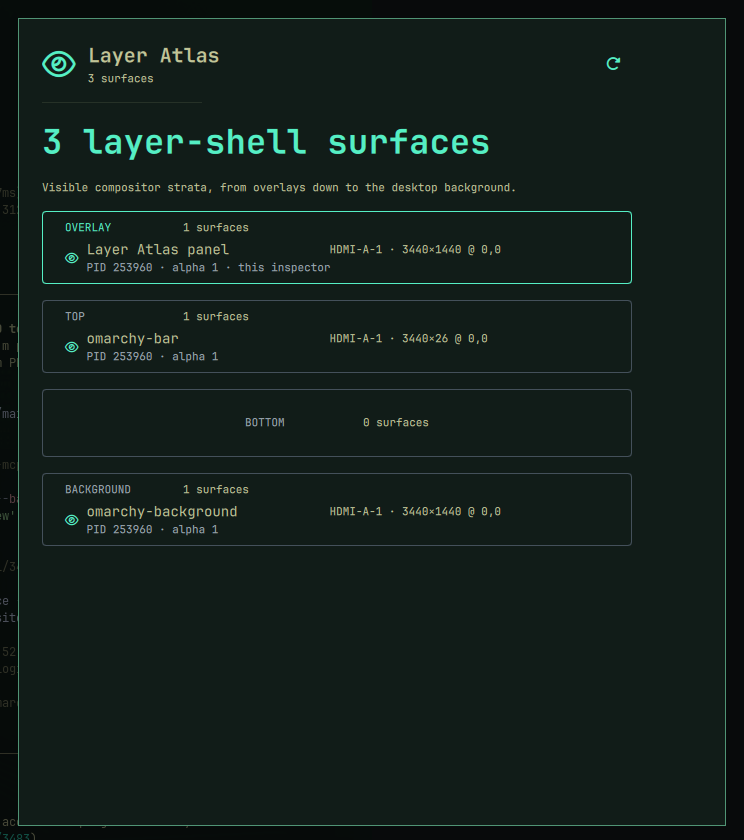
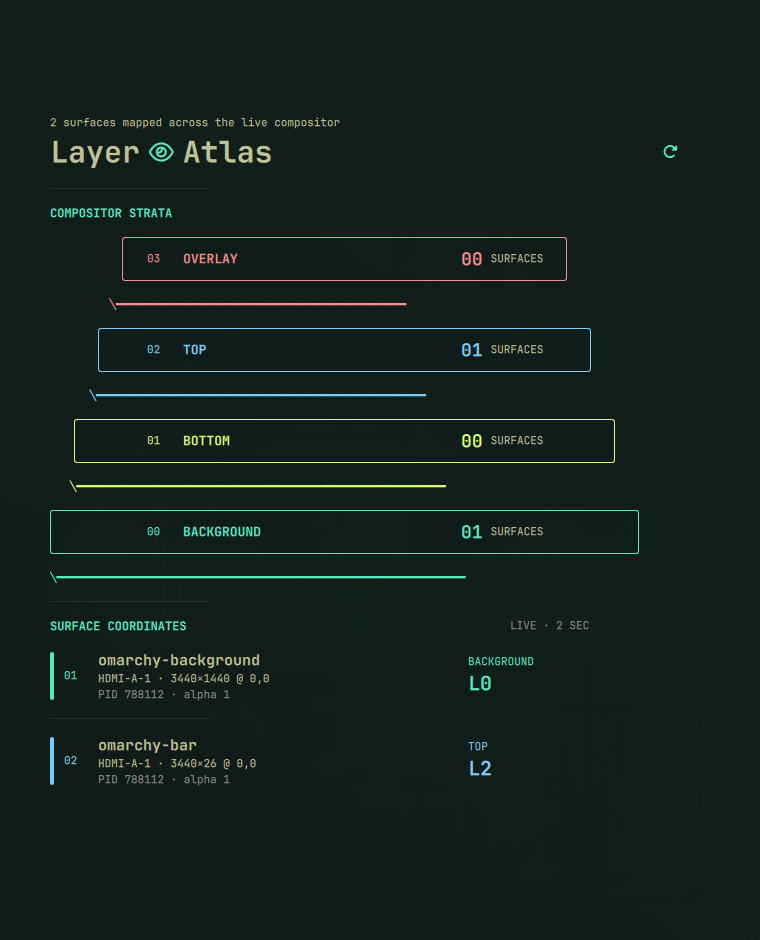
Redesign Layer Atlas as compositor strata

diff --git a/main.rb b/main.rb
@@ -353,60 +353,80 @@ OmarchyUI.plugin do
   end
 
   bar_widget do
-    row spacing: 7 do
-      icon :eye, color: "#55efc4"
-      text { state.snapshot.fetch("summary") }
+    row spacing: 6 do
+      icon :eye, size: 14, color: "#55efc4"
+      text "ATLAS", style: :caption, color: "#55efc4"
+      text(style: :caption) { state.snapshot.fetch("summary") }
     end
     on_click { open_panel :layer_atlas }
   end
 
   panel :layer_atlas do
-    scroll width: 660, height: 760 do
+    scroll width: 660, height: 780 do
       dynamic id: :scene, spacing: 16 do
         entries = state.snapshot.fetch("items")
-        history = state.snapshot.fetch("history")
+        levels = ["layer 3", "layer 2", "layer 1", "layer 0"]
+        labels = ["OVERLAY", "TOP", "BOTTOM", "BACKGROUND"]
+        colors = ["#ff8b8b", "#7dcfff", "#d8ff73", "#55efc4"]
 
-        row spacing: 12 do
-          icon :eye, size: 30, color: "#55efc4"
-          column spacing: 2 do
-            text "Layer Atlas", style: :heading, width: 500
-            text state.snapshot.fetch("summary"), style: :caption, width: 500
-          end
-          action_button :refresh, tooltip: "Refresh", foreground: "#55efc4" do
-            async(&refresh)
+        column spacing: 2 do
+          text "#{entries.length} surfaces mapped across the live compositor", style: :caption, width: 610
+          row spacing: 9 do
+            text "Layer", size: 30, bold: true
+            icon :eye, size: 22, color: "#55efc4"
+            text "Atlas", size: 30, bold: true, width: 465
+            action_button :refresh, tooltip: "Remap layers", foreground: "#55efc4" do
+              async(&refresh)
+            end
           end
         end
 
         separator
-        levels = ["layer 3", "layer 2", "layer 1", "layer 0"]
-            labels = ["OVERLAY", "TOP", "BOTTOM", "BACKGROUND"]
-            text "#{entries.length} layer-shell surfaces", size: 34, bold: true, color: "#55efc4"
-            text "Visible compositor strata, from overlays down to the desktop background.", style: :caption
-            levels.each_with_index do |level, level_index|
-              surfaces = entries.select { |entry| entry.fetch("status", "") == level }
-              visible_surfaces = surfaces.first(5)
-              rectangle width: 590, height: [68, 34 + visible_surfaces.length * 39].max, radius: 4, border_width: 1,
-                border_color: level_index.zero? ? "#55efc4" : "#44505a", padding: 9 do
-                column spacing: 5 do
-                  row spacing: 8 do
-                    text labels[level_index], style: :caption, color: level_index.zero? ? "#55efc4" : "#9ca8b2", width: 110
-                    text "#{surfaces.length} surfaces", style: :caption
-                  end
-                  visible_surfaces.each do |entry|
-                    row spacing: 8 do
-                      icon :eye, size: 12, color: "#55efc4"
-                      column spacing: 1 do
-                        row spacing: 8 do
-                          text entry.fetch("title"), width: 235
-                          text entry.fetch("detail", ""), style: :caption, width: 280
-                        end
-                        text entry.fetch("meta", ""), style: :caption, color: "#9ca8b2", width: 520
-                      end
-                    end
-                  end
-                end
+        text "COMPOSITOR STRATA", size: 12, bold: true, color: "#55efc4"
+        levels.each_with_index do |level, level_index|
+          surfaces = entries.select { |entry| entry.fetch("status", "") == level }
+          indent = 72 - level_index * 24
+          band_width = 445 + level_index * 48
+          row spacing: 0 do
+            text "", width: indent
+            rectangle width: band_width, height: 44, radius: 3,
+                      color: "#101b18", border_width: 1, border_color: colors[level_index], padding: 9 do
+              row spacing: 8 do
+                text "0#{3 - level_index}", style: :caption, color: colors[level_index], width: 28
+                text labels[level_index], size: 13, bold: true, color: colors[level_index], width: 270
+                text surfaces.length.to_s.rjust(2, "0"), size: 18, bold: true, color: colors[level_index]
+                text "SURFACES", style: :caption
               end
             end
+          end
+          text "#{" " * (9 - level_index * 3)}╲#{"━" * (44 + level_index * 6)}",
+               style: :caption, color: colors[level_index]
+        end
+
+        separator
+        row spacing: 10 do
+          text "SURFACE COORDINATES", size: 12, bold: true, color: "#55efc4", width: 450
+          text "LIVE · 2 SEC", style: :caption, color: "#829088"
+        end
+
+        entries.first(14).each_with_index do |entry, index|
+          level_index = levels.index(entry.fetch("status", "")) || 3
+          layer_color = colors[level_index]
+          row spacing: 10 do
+            rectangle width: 4, height: 48, radius: 2, color: layer_color
+            text (index + 1).to_s.rjust(2, "0"), style: :caption, color: layer_color, width: 24
+            column spacing: 1 do
+              text entry.fetch("title"), width: 360, size: 15, bold: true, wrap: true
+              text entry.fetch("detail", ""), style: :caption, width: 360, wrap: true
+              text entry.fetch("meta", ""), style: :caption, width: 360, color: "#829088", wrap: true
+            end
+            column spacing: 1 do
+              text labels[level_index], style: :caption, color: layer_color, width: 110
+              text "L#{3 - level_index}", size: 20, bold: true, color: layer_color
+            end
+          end
+          separator unless index == [entries.length, 14].min - 1
+        end
       end
     end
   end
